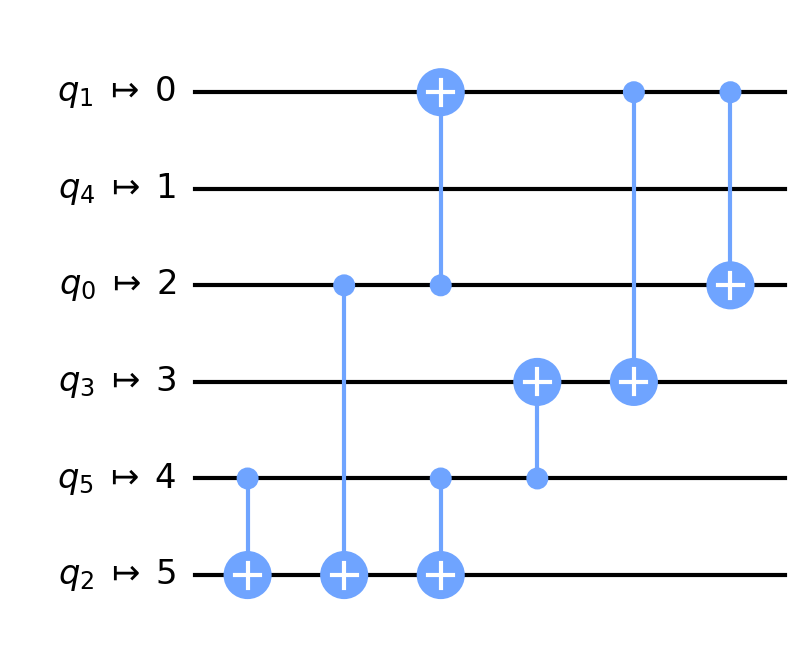
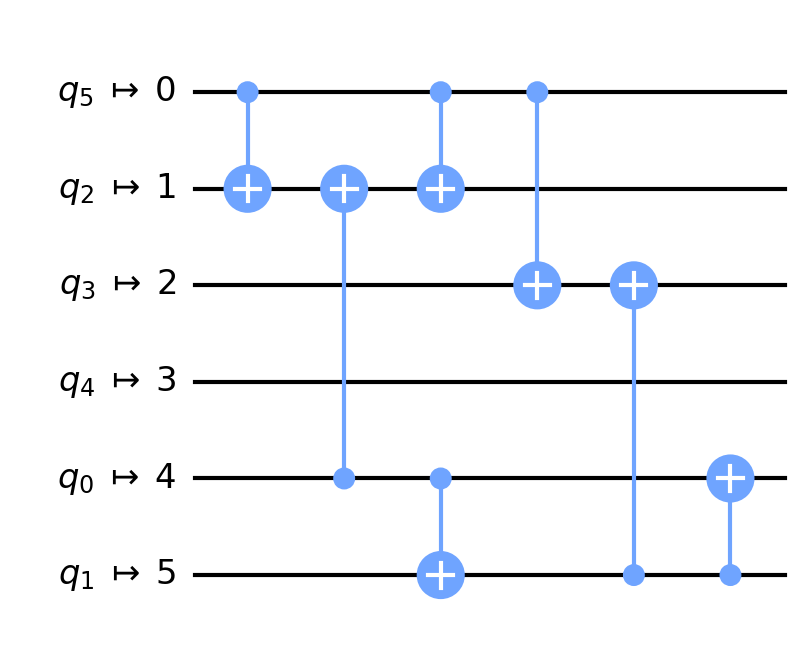
almost done with the new trials

diff --git a/ZCswap_gaps.py b/ZCswap_gaps.py
@@ -112,6 +112,7 @@ class SabreSwap(TransformationPass):
         # * The "and" is required here to ensure that the 2 gates are not applied on the same qubits, as there would be no option there.
         if self.gap_storage[v0] == Gap.CONTROL and self.gap_storage[v1] != Gap.TARGET:
             print(f"Found potential control match on qubit {v0}")
+            self.test_rule(mapped_dag, new_node)
 
             # TODO Need to trial the current layout and mapping, and determine if applying the rule will decrease depth
             # TODO If it doesnt, we will keep the current setup, but if it does we will swap execution
@@ -132,6 +133,14 @@ class SabreSwap(TransformationPass):
         return mapped_dag.apply_operation_back(
             new_node.op, new_node.qargs, new_node.cargs
         )
+
+    def test_rule(self, mapped_dag: DAGCircuit, node: DAGOpNode) -> int:
+        """Tries an application of a gate and returns the depth"""
+        trial_dag = deepcopy(mapped_dag)
+        trial_dag.apply_operation_back(node.op, node.qargs, node.cargs)
+        print(trial_dag.properties()["depth"])
+        print(mapped_dag.properties()["depth"])
+        quit()
 
     def run(self, dag):
         """Run the SabreSwap pass on `dag`.
@@ -241,7 +250,7 @@ class SabreSwap(TransformationPass):
             # * We can now apply the gates in the execute list
             if execute_gate_list:
                 for node in execute_gate_list:
-                    self._apply_gate(
+                    self._apply_gate_commutative(
                         mapped_dag, node, current_layout, canonical_register
                     )
                     # self._apply_gate(
@@ -282,9 +291,9 @@ class SabreSwap(TransformationPass):
             if extended_set is None:
                 extended_set = self._obtain_extended_set(dag, front_layer)
 
-            print(extended_set)
-            draw_dag(mapped_dag, filename="testing_mapped_dag.png")
-            quit()
+            # print(extended_set)
+            # draw_dag(mapped_dag, filename="testing_mapped_dag.png")
+            # quit()
 
             swap_scores = {}
             for swap_qubits in self._obtain_swaps(front_layer, current_layout):
